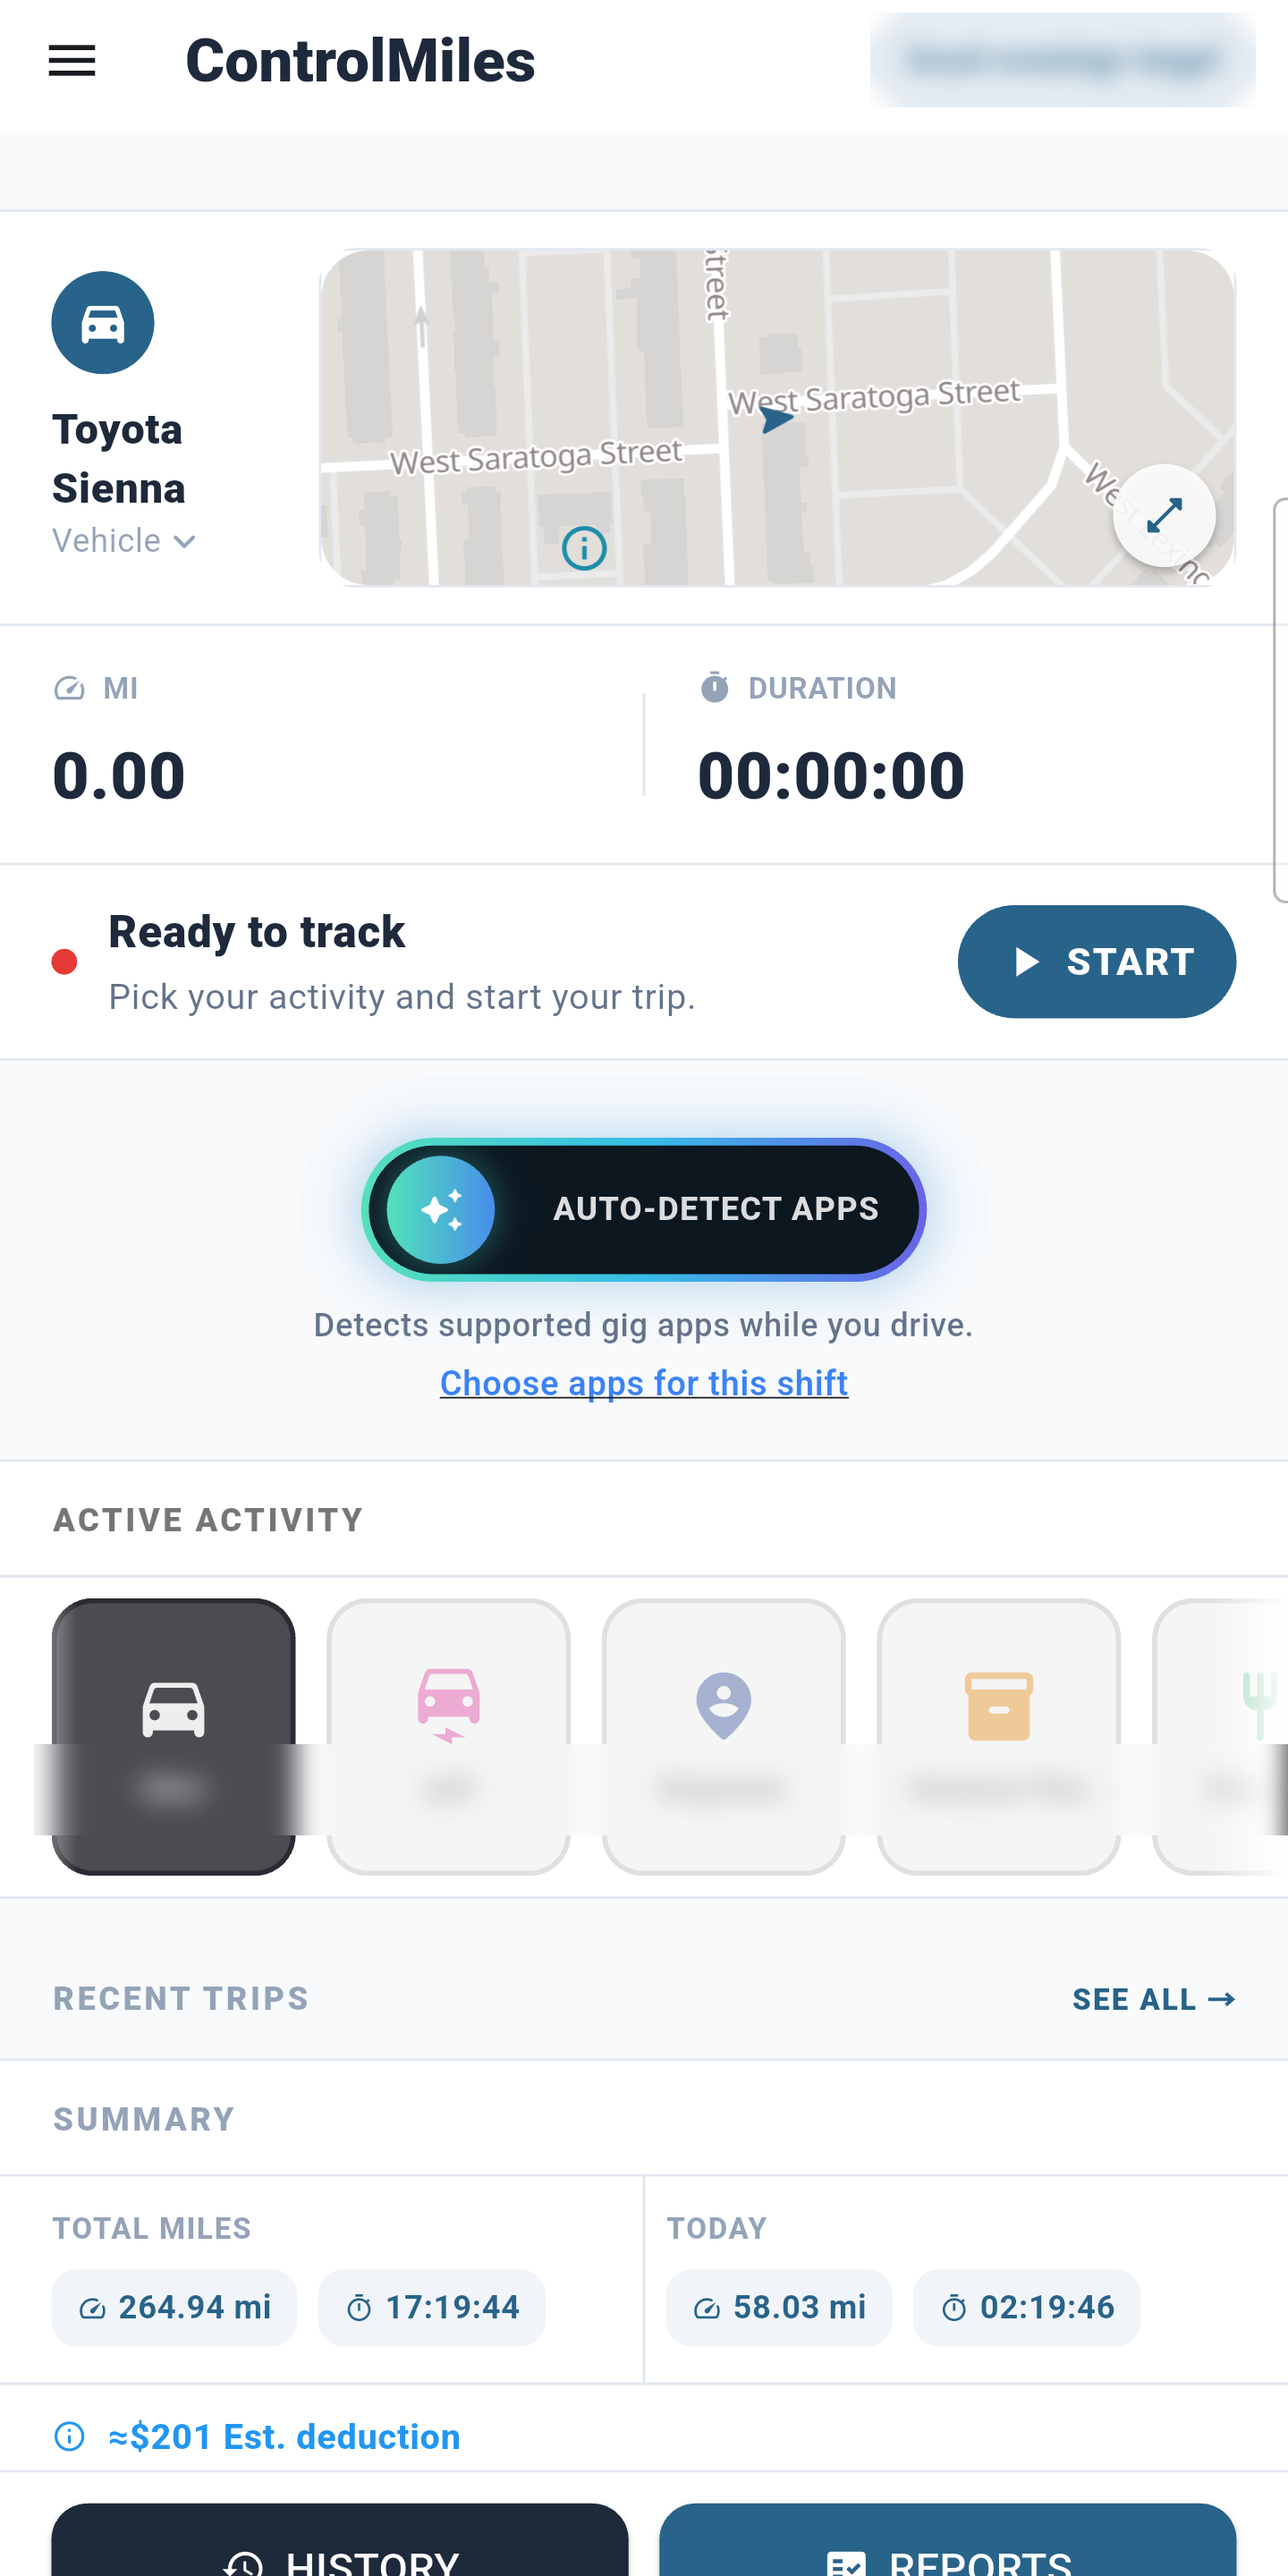
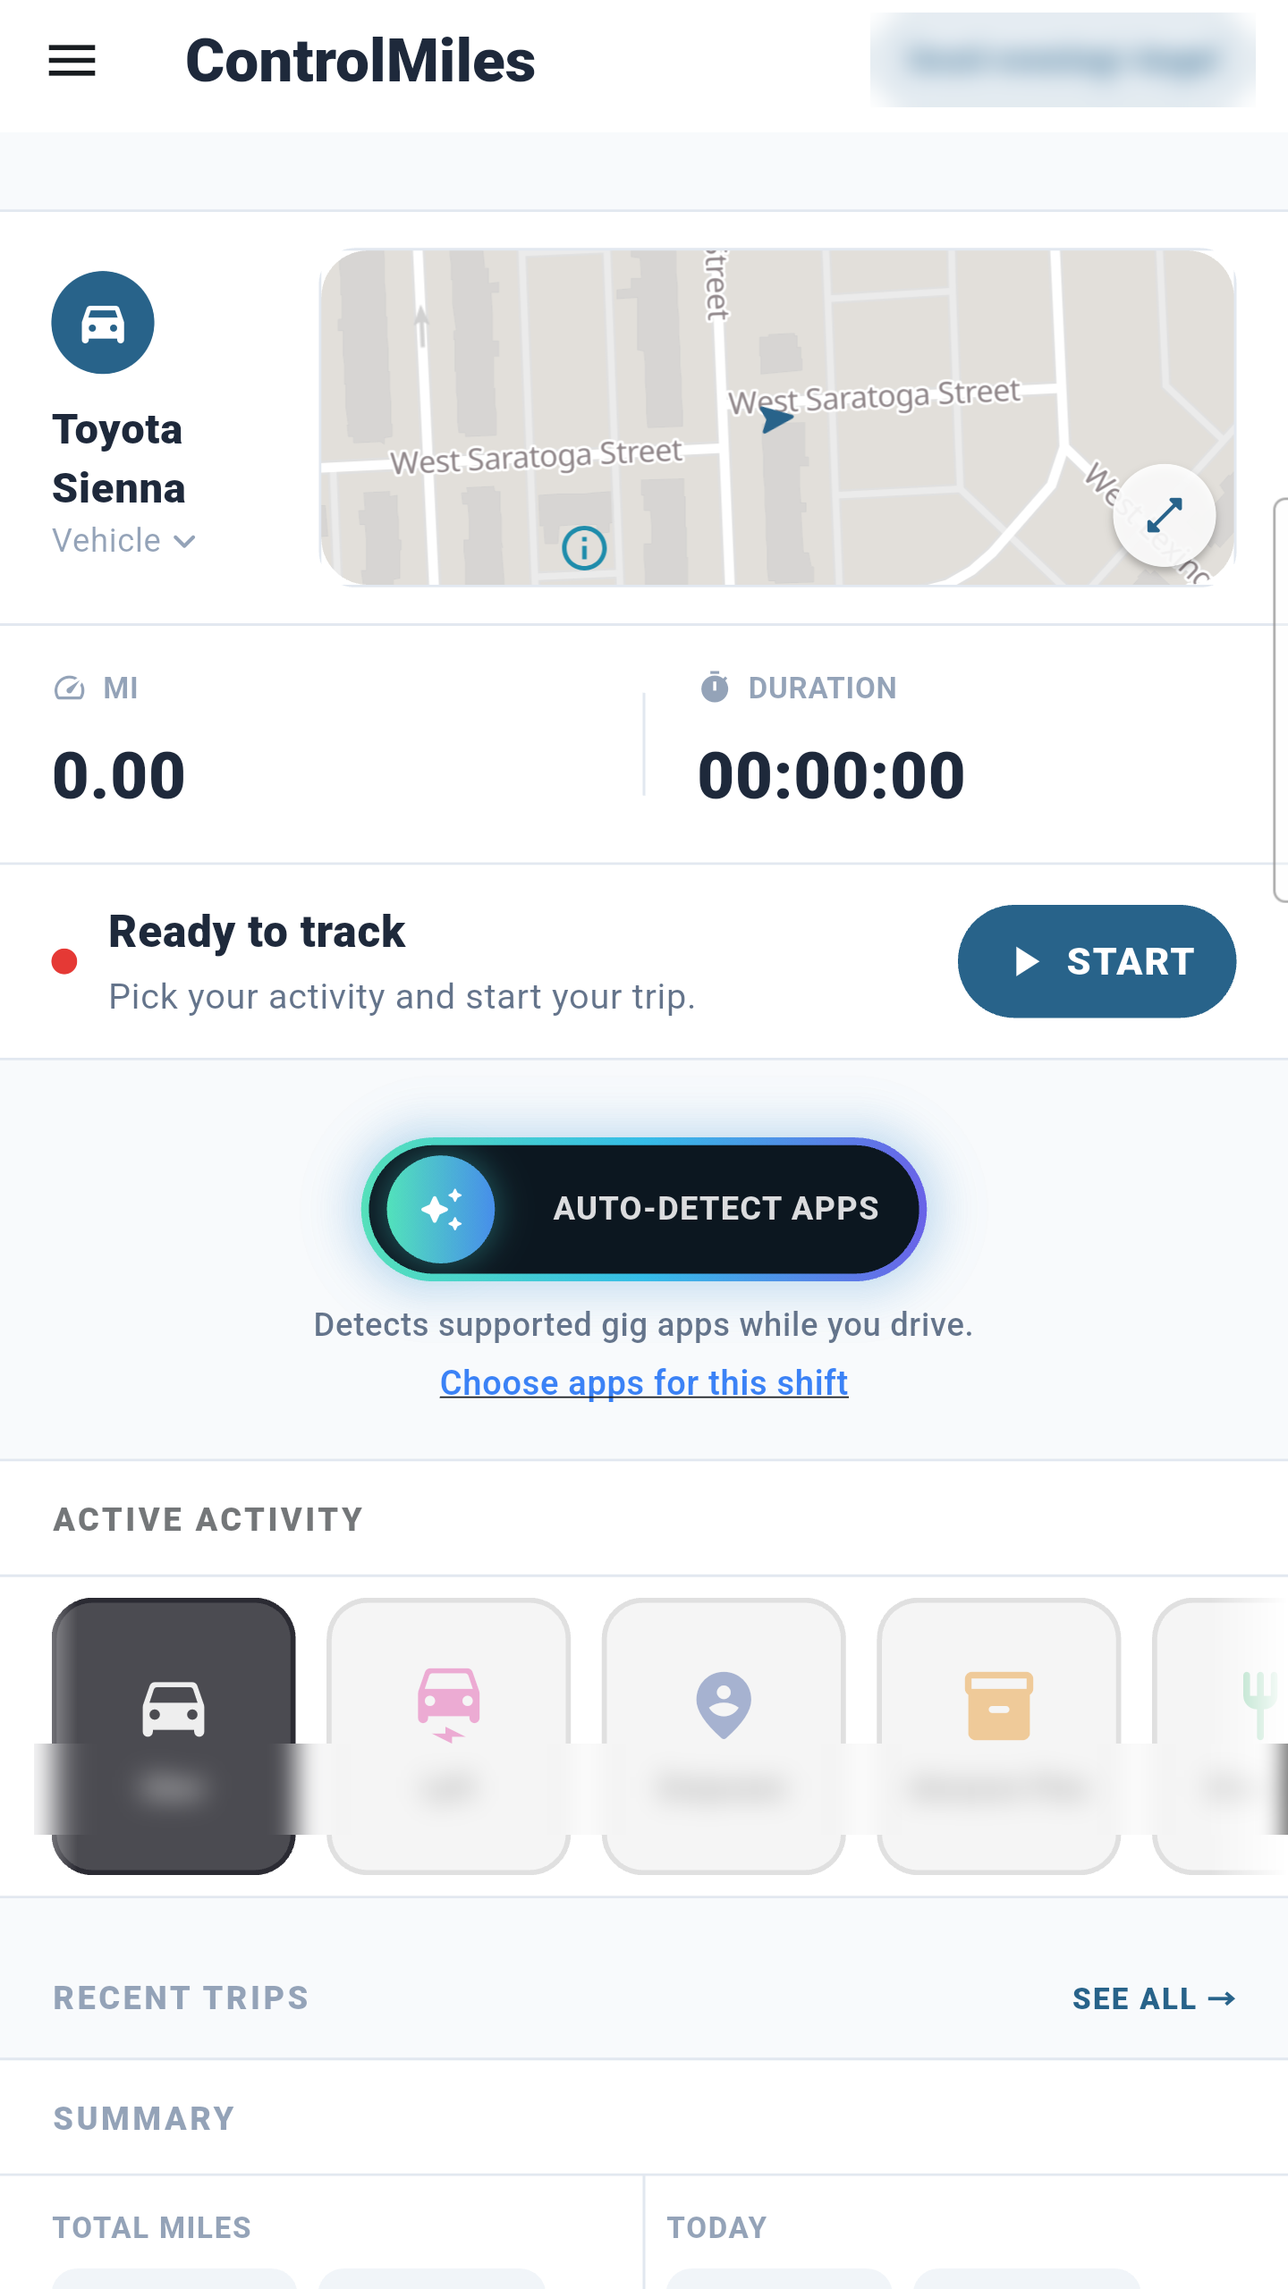
chore(play): phone screenshots recropped to exact 9:16 (1440x2560), as Play Console requires

diff --git a/docs/play-store-listing.md b/docs/play-store-listing.md
@@ -108,7 +108,7 @@ La deducción que se muestra es una estimación para tus registros, no asesoría
 |---|---|---|
 | **Ícono de la app** | PNG 512×512, ≤ 1 MB | `store_assets/play_store_icon_512.png` ✅ |
 | **Imagen destacada** | PNG/JPG 1024×500, ≤ 15 MB | `store_assets/feature_graphic_1024x500.png` |
-| **Capturas de teléfono** | 2–8, PNG/JPG, lado menor ≥ 320 px, **el lado mayor no puede ser más de 2× el menor** (la pantalla del S24+ es 1440×3120 → se recorta a 1440×2880) | `store_assets/screenshots/phone_*.png` |
+| **Capturas de teléfono** | 2–8, PNG/JPG, lado menor ≥ 320 px, **el lado mayor no puede ser más de 2× el menor** y la proporción debe ser **exactamente 9:16** (se recortan a 1440×2560) | `store_assets/screenshots/phone_*.png` |
 | Capturas de tablet 7"/10" | Opcional | — |
 | Video | Opcional (URL de YouTube) | — |
 
